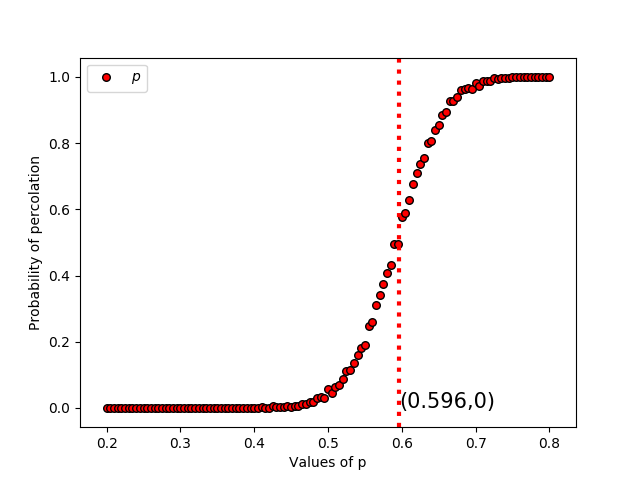
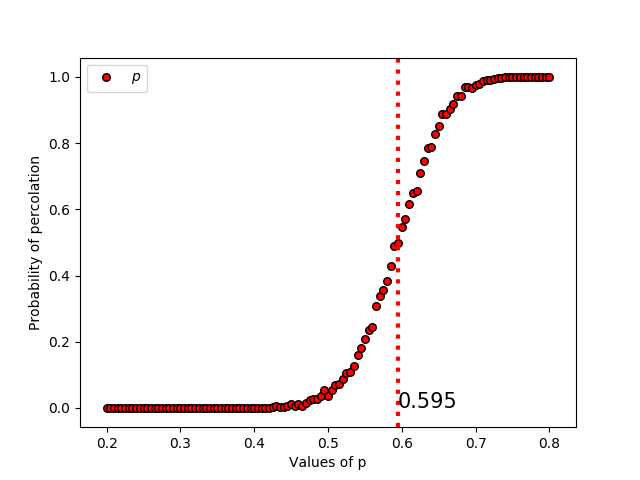
Cube one started along with square.py complete

diff --git a/Percolation Thresholds in Square/percolation.py b/Percolation Thresholds in Square/percolation.py
@@ -47,13 +47,24 @@ def percolate(M):
     return 0
     
 def plot(x,y):
+   
+    min=abs(0.5-y[0])
+    pos=0   
+    for i in range(len(x)-1):
+        if(abs(0.5-y[i+1])<min):
+            min=abs(0.5-y[i+1])
+            pos=i+1
+   
     plt.scatter(x, y, label= r'$p$', facecolor = 'red', edgecolor = 'black', marker= 'o', s = 30)
     plt.xlabel('Values of p')
     plt.ylabel('Probability of percolation')
     plt.legend()
-    plt.axvline(0.596,color='red',linewidth=3,linestyle='dotted')
-    plt.text(0.596,0,"(0.596,0)",fontsize=15)
-    plt.show()   
+    plt.axvline(x[pos],color='red',linewidth=3,linestyle='dotted')
+    plt.text(x[pos],0,x[pos],fontsize=15)
+    plt.savefig('probability_graph.png')
+    plt.show()
+            
+        
     
 def simulate(T,N,p):
     u=[]

diff --git a/Julia/julia.py b/Julia/julia.py
@@ -30,7 +30,7 @@ def plot(Frac, height, width):
     # For some reason we want to flip the image 
     # upside down and then plot
     plt.imshow(flipud(Frac), cmap='hot')
-    plt.savefig('julia_0.355_0.355.png')
+    plt.savefig('julia.png')
     plt.show()
     plt.close()
 
